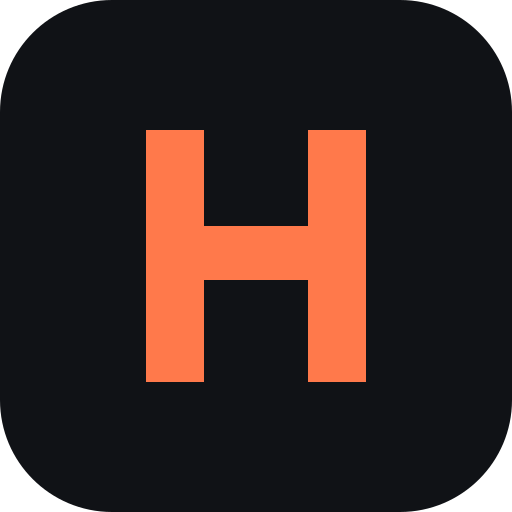
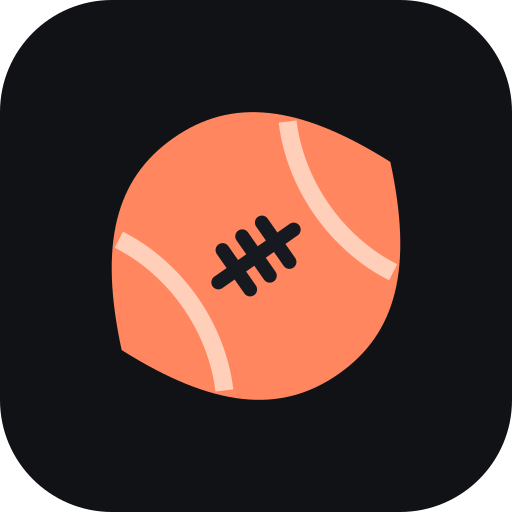
Add football branding, conference favorites, and configurable viewing services

Changed region(s): [[0.2188, 0.2188, 0.7812, 0.7812]]

diff --git a/src/app.js b/src/app.js
@@ -1,4 +1,5 @@
 import './style.css';
+import {TEAMS,normalizeFavorites,favoriteTeams,SERVICE_GROUPS,SERVICE_LABELS} from './preferences.js';
 import { createIcons, CalendarDays, MapPin, ArrowUpRight, ChevronLeft, ChevronRight, Bell, BellRing, Radio, Tv, Smartphone, Check, RefreshCw, Settings2, Download, X, Search, ExternalLink, Info, ArrowRight, CircleHelp, WifiOff, Zap } from 'lucide';
 import {DEFAULT_SERVICES,STATIONS,slateRange,normalizeScoreboard,mergeVerification,access,mountain,kickoff,localDate,calendar,safeUrl} from './core.js';
 import {registerGuideTools} from './agent-tools.js';
@@ -7,11 +8,12 @@ const $=s=>document.querySelector(s),esc=s=>String(s??'').replace(/[&<>"']/g,c=>
 const icon=(name,cls='')=>`<i data-lucide="${name}" class="${cls}" aria-hidden="true"></i>`;
 const read=(k,f)=>{try{return JSON.parse(localStorage.getItem(k))??f;}catch{return f;}};
 const write=(k,v)=>{try{localStorage.setItem(k,JSON.stringify(v));}catch{toast('Your browser could not save this preference.');}};
+let favorites=normalizeFavorites(read('huddle.favorites',{}));
 let services={...DEFAULT_SERVICES,...read('huddle.services',{})},saved=read('huddle.saved',[]),offset=0,filter='all',query='',games=[],dataState='loading',checked=null,api='',loading=false,installPrompt=null,registration=null,sequence=0,verificationError='';
 function paintIcons(){createIcons({icons,attrs:{'stroke-width':1.7}});}
 function toast(message){$('#toast').textContent=message;$('#toast').classList.add('visible');clearTimeout(toast.timer);toast.timer=setTimeout(()=>$('#toast').classList.remove('visible'),5000);}
 function shell(){
- $('#app').innerHTML=`<a href="#guide" class="skip">Skip to games</a><header class="topbar"><a class="brand" href="./" aria-label="Boulder Huddle home"><span class="brandmark">h</span><span>huddle<span class="brand-dot">.</span></span></a><span class="header-divider"></span><span class="edition">BOULDER EDITION</span><div class="top-right"><span class="location">${icon('map-pin')} Boulder, CO <span class="muted">· Mountain Time</span></span><button id="settings" class="icon-button" aria-label="Settings">${icon('settings-2')}</button><button id="install" class="button small">${icon('download')} Install app</button></div></header>
+ $('#app').innerHTML=`<a href="#guide" class="skip">Skip to games</a><header class="topbar"><a class="brand" href="./" aria-label="Boulder Huddle home"><img class="brandmark" src="./icon.svg" alt=""><span>huddle<span class="brand-dot">.</span></span></a><span class="header-divider"></span><span class="edition">BOULDER EDITION</span><div class="top-right"><span class="location">${icon('map-pin')} Boulder, CO <span class="muted">· Mountain Time</span></span><button id="settings" class="icon-button" aria-label="Settings">${icon('settings-2')}</button><button id="install" class="button small">${icon('download')} Install app</button></div></header>
  <main><div class="intro"><div><div class="eyebrow">YOUR WEEKLY NFL VIEWING GUIDE</div><h1>Football. <span>Sorted.</span></h1><p>Every matchup. Your channels. Zero guesswork.</p></div><button class="button primary" id="alerts">${icon('bell')} Game reminders</button></div>
  <section class="service-strip" aria-label="Your services"><div class="service-label">YOUR LINEUP</div><div id="services"></div><button class="text-button" id="edit-services">Edit ${icon('arrow-up-right')}</button></section>
  <div class="workspace"><div class="main-column"><section id="spotlight"></section><section id="guide" aria-label="Weekly games"><div class="guide-heading"><div><h2>The weekly slate <span id="game-total"></span></h2><p id="week-caption">Loading the upcoming slate…</p></div><div class="week-controls"><button id="prev" class="icon-button" aria-label="Previous week">${icon('chevron-left')}</button><button id="current" class="text-button">This week</button><button id="next" class="icon-button" aria-label="Next week">${icon('chevron-right')}</button></div></div><div class="filters"><div class="segments" role="group" aria-label="Filter games"><button data-filter="all" class="active" aria-pressed="true">All games</button><button data-filter="full" aria-pressed="false">Full game</button><button data-filter="redzone" aria-pressed="false">RedZone</button><button data-filter="saved" aria-pressed="false">Saved</button></div><label class="search">${icon('search')}<input id="search" placeholder="Find a team" aria-label="Find a team"></label></div><div id="freshness" class="freshness" role="status"></div><div id="games" aria-live="polite"><div class="empty">Loading your slate…</div></div></section></div>
@@ -28,10 +30,10 @@ function shell(){
  $('#games').addEventListener('click',gameAction);$('#spotlight').addEventListener('click',gameAction);
  renderServices();paintIcons();
 }
-function renderServices(){const labels={ota:['radio','OTA antenna'],netflix:[null,'Netflix'],prime:[null,'Prime Video'],nfl:['smartphone','NFL+'],redzone:['zap','RedZone']};$('#services').innerHTML=Object.entries(labels).filter(([key])=>services[key]).map(([key,[i,text]])=>`<span class="service-chip ${key}">${i?icon(i):`<b>${key==='netflix'?'N':'prime'}</b>`}${text}<span class="service-check">${icon('check')}</span></span>`).join('')||'<span class="muted">No services selected</span>';paintIcons();}
+function renderServices(){$('#services').innerHTML=Object.entries(SERVICE_LABELS).filter(([key])=>services[key]&&!key.startsWith('tv_')).map(([key,label])=>`<span class="service-chip">${icon('tv')}${esc(label)}<span class="service-check">${icon('check')}</span></span>`).join('')||'<span class="muted">No services selected</span>';paintIcons();}
 function teamLogo(t){const url=safeUrl(t.logo);return url?`<img class="team-logo" src="${esc(url)}" alt="" loading="lazy" onerror="this.style.display='none'">`:'';}
-function renderSpotlight(){const g=games.find(g=>g.state!=='post'&&(g.away.abbr==='DEN'||g.home.abbr==='DEN'))||games.find(g=>g.state!=='post')||games[0];if(!g){$('#spotlight').innerHTML='';return;}const a=access(g,services),broncos=g.away.abbr==='DEN'||g.home.abbr==='DEN';$('#spotlight').innerHTML=`<article class="spotlight"><div class="spotlight-top"><span class="tiny-tag">${icon(broncos?'map-pin':'calendar-days')} ${broncos?'THE HOME TEAM':'UP NEXT'}</span><span>${esc(mountain(g.date,{weekday:'long'}))} ${icon('arrow-up-right')}</span></div><div class="spotlight-content"><div><div class="spotlight-meta">${esc(g.networks.join(' + '))} <span>·</span> ${esc(kickoff(g))} MT</div><h2>${esc(g.away.short)} <span>at</span><br>${esc(g.home.short)}</h2><p>${esc(g.venue)}</p></div><div class="matchup-logos">${teamLogo(g.away)}<span>VS</span>${teamLogo(g.home)}</div></div><div class="spotlight-bottom"><span>${icon(a.kind==='full'?'tv':'info')} ${esc(a.line)}</span><button data-action="save" data-id="${esc(g.id)}" class="button spotlight-save" aria-pressed="${saved.includes(g.id)}">${icon(saved.includes(g.id)?'check':'bell')} ${saved.includes(g.id)?'Saved':'Save game'}</button></div></article>`;paintIcons();}
-function gameCard(g){const a=access(g,services);return `<article class="game ${a.kind}" id="game-${esc(g.id)}"><div class="game-time"><strong>${esc(kickoff(g))}</strong><span>MT${g.state==='post'?' · FINAL':g.state==='in'?' · LIVE':''}</span></div><div class="game-main"><div class="matchup">${teamLogo(g.away)}<h3>${esc(g.away.short)} <span>at</span> ${esc(g.home.short)}</h3>${teamLogo(g.home)}${g.away.abbr==='DEN'||g.home.abbr==='DEN'?'<span class="home-tag">DEN</span>':''}</div><div class="broadcast">${esc(g.networks.join(' / ')||'Broadcaster TBD')}${g.neutral?' <span>·</span> '+esc(g.venue):''}${a.station?' <span>·</span> '+esc(a.station):''}</div><div class="watch-line"><strong>How you can watch</strong><span>${esc(a.line)}</span></div><p class="access-detail">${esc(a.detail)}</p>${g.notes?`<p class="access-detail">${esc(g.notes)}</p>`:''}<div class="game-links"><button data-action="detail" data-id="${esc(g.id)}">${icon('external-link')} Sources & details</button><button data-action="calendar" data-id="${esc(g.id)}">${icon('calendar-days')} Calendar</button></div></div><div class="game-end"><span class="badge ${a.kind}">${icon(a.kind==='full'?'check':a.kind==='mobile'?'smartphone':a.kind==='redzone'?'zap':'circle-help')}${esc(a.label)}</span><button class="icon-button save ${saved.includes(g.id)?'selected':''}" data-action="save" data-id="${esc(g.id)}" aria-label="${saved.includes(g.id)?'Unsave':'Save'} ${esc(g.away.short)} at ${esc(g.home.short)}" aria-pressed="${saved.includes(g.id)}">${icon(saved.includes(g.id)?'bell-ring':'bell')}</button></div></article>`;}
+function renderSpotlight(){const picks=[...new Set(Object.values(favorites).filter(Boolean).map(t=>games.find(g=>g.state!=='post'&&(g.away.abbr===t||g.home.abbr===t))).filter(Boolean))];if(!picks.length){const next=games.find(g=>g.state!=='post')||games[0];if(next)picks.push(next);}$('#spotlight').innerHTML=picks.map(g=>{const a=access(g,services),chosen=favoriteTeams(g,favorites);return `<article class="spotlight"><div class="spotlight-top"><span class="tiny-tag">${icon(chosen.length?'map-pin':'calendar-days')} ${chosen.length?'YOUR TEAM · '+chosen.join(' + '):'UP NEXT'}</span><span>${esc(mountain(g.date,{weekday:'long'}))} ${icon('arrow-up-right')}</span></div><div class="spotlight-content"><div><div class="spotlight-meta">${esc(g.networks.join(' + '))} <span>·</span> ${esc(kickoff(g))} MT</div><h2>${esc(g.away.short)} <span>at</span><br>${esc(g.home.short)}</h2><p>${esc(g.venue)}</p></div><div class="matchup-logos">${teamLogo(g.away)}<span>VS</span>${teamLogo(g.home)}</div></div><div class="spotlight-bottom"><span>${icon(a.kind==='full'?'tv':'info')} ${esc(a.line)}</span><button data-action="save" data-id="${esc(g.id)}" class="button spotlight-save" aria-pressed="${saved.includes(g.id)}">${icon(saved.includes(g.id)?'check':'bell')} ${saved.includes(g.id)?'Saved':'Save game'}</button></div></article>`;}).join('');paintIcons();}
+function gameCard(g){const a=access(g,services);return `<article class="game ${a.kind}" id="game-${esc(g.id)}"><div class="game-time"><strong>${esc(kickoff(g))}</strong><span>MT${g.state==='post'?' · FINAL':g.state==='in'?' · LIVE':''}</span></div><div class="game-main"><div class="matchup">${teamLogo(g.away)}<h3>${esc(g.away.short)} <span>at</span> ${esc(g.home.short)}</h3>${teamLogo(g.home)}${favoriteTeams(g,favorites).map(t=>`<span class="home-tag">${esc(t)}</span>`).join('')}</div><div class="broadcast">${esc(g.networks.join(' / ')||'Broadcaster TBD')}${g.neutral?' <span>·</span> '+esc(g.venue):''}${a.station?' <span>·</span> '+esc(a.station):''}</div><div class="watch-line"><strong>How you can watch</strong><span>${esc(a.line)}</span></div><p class="access-detail">${esc(a.detail)}</p>${g.notes?`<p class="access-detail">${esc(g.notes)}</p>`:''}<div class="game-links"><button data-action="detail" data-id="${esc(g.id)}">${icon('external-link')} Sources & details</button><button data-action="calendar" data-id="${esc(g.id)}">${icon('calendar-days')} Calendar</button></div></div><div class="game-end"><span class="badge ${a.kind}">${icon(a.kind==='full'?'check':a.kind==='mobile'?'smartphone':a.kind==='redzone'?'zap':'circle-help')}${esc(a.label)}</span><button class="icon-button save ${saved.includes(g.id)?'selected':''}" data-action="save" data-id="${esc(g.id)}" aria-label="${saved.includes(g.id)?'Unsave':'Save'} ${esc(g.away.short)} at ${esc(g.home.short)}" aria-pressed="${saved.includes(g.id)}">${icon(saved.includes(g.id)?'bell-ring':'bell')}</button></div></article>`;}
 function renderGames(){
  document.querySelectorAll('[data-filter]').forEach(b=>{b.classList.toggle('active',b.dataset.filter===filter);b.setAttribute('aria-pressed',b.dataset.filter===filter);});
  const visible=games.filter(g=>{const a=access(g,services);return (filter==='all'||(filter==='full'&&a.kind==='full')||(filter==='redzone'&&a.redzone)||(filter==='saved'&&saved.includes(g.id)))&&`${g.home.name} ${g.away.name} ${g.home.abbr} ${g.away.abbr}`.toLowerCase().includes(query.toLowerCase());});
@@ -51,7 +53,7 @@ async function load(){const current=++sequence;loading=true;verificationError=''
 }
 function changeWeek(n){offset=Math.max(-30,Math.min(30,offset+n));games=[];renderGames();load();}
 function modal(title,body){$('#dialog-content').innerHTML=`<div class="modal-heading"><h2>${esc(title)}</h2><button class="icon-button" id="close-dialog" aria-label="Close">${icon('x')}</button></div>${body}`;$('#close-dialog').onclick=()=>$('#dialog').close();if(!$('#dialog').open)$('#dialog').showModal();paintIcons();}
-function settings(){modal('Your game-day setup',`<p class="muted">Boulder / Denver market · America/Denver</p><h3>Your services</h3><div class="service-options">${Object.entries({ota:'Over-the-air antenna',prime:'Amazon Prime Video',netflix:'Netflix',nfl:'NFL+ live mobile & NFL Network',redzone:'NFL+ Premium with RedZone'}).map(([key,label])=>`<label><input type="checkbox" data-service="${key}" ${services[key]?'checked':''}>${label}</label>`).join('')}</div><h3>Live guide service</h3><p class="muted">Connect the companion service to verify local broadcasts and send Android reminders when the app is closed.</p><label class="field">Service URL<input id="api-url" type="url" placeholder="https://your-huddle-service.workers.dev" value="${esc(api)}"></label><p class="fine">No API keys belong here. The service keeps them private. Device preferences stay in this browser; enabled reminders are saved to the service.</p><button id="save-settings" class="button primary">Save settings</button>`);$('#save-settings').onclick=async()=>{const value=$('#api-url').value.trim().replace(/\/$/,'');if(value&&!safeUrl(value)){toast('Enter a valid HTTPS service URL.');return;}if(value!==api&&registration&&await registration.pushManager.getSubscription()){toast('Turn off reminders before changing the service URL.');return;}document.querySelectorAll('[data-service]').forEach(i=>services[i.dataset.service]=i.checked);api=value;write('huddle.services',services);write('huddle.api',api);$('#dialog').close();renderServices();renderGames();renderSpotlight();await syncSubscription().catch(()=>toast('Services saved locally; reminder settings could not sync.'));load();};}
+function settings(){modal('Your game-day setup',`<p class="muted">Boulder / Denver market · Mountain Time</p><h3>Your teams</h3><p class="fine">One team per conference. Your picks feature their next games; local channels stay in the Denver market.</p><div class="team-options">${Object.entries(TEAMS).map(([conference,teams])=>`<label class="field">${conference}<select id="team-${conference}">${conference==='NFC'?'<option value="">Choose an NFC team</option>':''}${Object.entries(teams).map(([abbr,name])=>`<option value="${abbr}" ${favorites[conference]===abbr?'selected':''}>${name}</option>`).join('')}</select></label>`).join('')}</div>${SERVICE_GROUPS.map(group=>`<h3>${group.title}</h3>${group.note?`<p class="fine">${group.note}</p>`:''}<div class="service-options">${Object.entries(group.items).map(([key,label])=>`<label><input type="checkbox" data-service="${key}" ${services[key]?'checked':''}>${label}</label>`).join('')}</div>`).join('')}<p class="fine">Select the plan you have. ESPN Select does not include every ESPN game. Event streams appear only when named by the schedule. International Game Pass does not provide live games in Boulder.</p><details><summary>Connection settings</summary><label class="field">Live guide URL<input id="api-url" type="url" value="${esc(api)}"></label><p class="fine">Your guide refreshes without a paid API key. Preferences stay on this device and sync for enabled reminders.</p></details><button id="save-settings" class="button primary settings-save">Save settings</button>`);$('#save-settings').onclick=async()=>{const value=$('#api-url').value.trim().replace(/\/$/,'');if(value&&!safeUrl(value)){toast('Enter a valid HTTPS service URL.');return;}if(value!==api&&registration&&await registration.pushManager.getSubscription()){toast('Turn off reminders before changing the service URL.');return;}document.querySelectorAll('[data-service]').forEach(i=>services[i.dataset.service]=i.checked);favorites=normalizeFavorites({AFC:$('#team-AFC').value,NFC:$('#team-NFC').value});write('huddle.favorites',favorites);api=value;write('huddle.services',services);write('huddle.api',api);$('#dialog').close();renderServices();renderGames();renderSpotlight();await syncSubscription().catch(()=>toast('Services saved locally; reminder settings could not sync.'));load();};}
 async function gameAction(e){const b=e.target.closest('[data-action]');if(!b)return;const g=games.find(g=>g.id===b.dataset.id);if(!g)return;if(b.dataset.action==='save'){saved=saved.includes(g.id)?saved.filter(x=>x!==g.id):[...saved,g.id];write('huddle.saved',saved);renderGames();renderSpotlight();toast(saved.includes(g.id)?'Game saved. Enable Game reminders for kickoff alerts.':'Game removed from saved games.');await syncSubscription().catch(()=>toast('Saved locally. Reminder sync failed; try again in Game reminders.'));}if(b.dataset.action==='calendar'){if(g.timeTbd)return toast('Kickoff time is still TBD. Add it once the time is confirmed.');const url=URL.createObjectURL(new Blob([calendar(g,access(g,services))],{type:'text/calendar'}));const a=document.createElement('a');a.href=url;a.download=`${g.away.abbr}-${g.home.abbr}.ics`;a.click();setTimeout(()=>URL.revokeObjectURL(url),1000);}if(b.dataset.action==='detail'){const a=access(g,services);modal(`${g.away.short} at ${g.home.short}`,`<p>${esc(mountain(g.date,{weekday:'long',month:'long',day:'numeric'}))} · ${esc(kickoff(g))} MT</p><span class="badge ${a.kind}">${esc(a.label)}</span><h3>How you can watch</h3><p>${esc(a.line)}</p><p class="muted">${esc(a.detail)}</p><h3>Verification</h3><p class="muted">${g.verifiedAt?'Last checked '+esc(mountain(g.verifiedAt,{month:'short',day:'numeric',hour:'numeric',minute:'2-digit'}))+' MT. Assignments expire after two hours.':'Local assignment has not been verified. A national CBS or FOX listing does not identify the Denver game.'}</p>${sourceLinks(g.sources)}${commonSources(g)}<p class="fine">RedZone is live coverage of selected moments, never an entitlement to a full out-of-market game. NFL+ full replays are available after games, not live TV access.</p>`);}}
 function sourceLinks(s=[]){return `<div class="source-links">${s.filter(s=>safeUrl(s.url)).map(s=>`<a href="${esc(s.url)}" target="_blank" rel="noreferrer">${esc(s.title)} ${icon('arrow-up-right')}</a>`).join('')}</div>`;}
 function commonSources(g){return sourceLinks([{title:'NFL official schedule',url:'https://www.nfl.com/schedules/'},{title:'506 Sports · regional broadcast maps',url:g?.season&&g?.week?`https://506sports.com/nfl.php?yr=${g.season}&wk=${g.week}`:'https://506sports.com/nfl/'},{title:'NFL+ device and casting restrictions',url:'https://support.nfl.com/hc/en-us/articles/35869809347860-Is-there-any-difference-between-NFL-on-my-mobile-app-NFL-on-my-computer-and-NFL-on-my-television'}]);}

diff --git a/src/core.js b/src/core.js
@@ -1,6 +1,7 @@
+import {SERVICE_LABELS,PROVIDERS} from './preferences.js';
 export const ZONE = 'America/Denver';
 export const STATIONS = {CBS: 'KCNC · 4.1', FOX: 'KDVR · 31.1', NBC: 'KUSA · 9.1', ABC: 'KMGH · 7.1'};
-export const DEFAULT_SERVICES = {ota:true, prime:true, netflix:true, nfl:true, redzone:true};
+export const DEFAULT_SERVICES = {...Object.fromEntries(Object.keys(SERVICE_LABELS).map(k=>[k,false])),ota:true, prime:true, netflix:true, nfl:true, redzone:true};
 export function localDate(date) {return new Intl.DateTimeFormat('en-CA',{timeZone:ZONE,year:'numeric',month:'2-digit',day:'2-digit'}).format(new Date(date));}
 export function mountain(date, options={}) {return new Intl.DateTimeFormat('en-US',{timeZone:ZONE,...options}).format(new Date(date));}
 export function kickoff(game) {return game.timeTbd ? 'Time TBD' : mountain(game.date,{hour:'numeric',minute:'2-digit'});}
@@ -23,17 +24,29 @@ export function freshVerification(g,now=Date.now()) {return !!g.verifiedAt && no
 export function access(g,services=DEFAULT_SERVICES,now=Date.now()) {
   const fresh=freshVerification(g,now);const nets=g.networks.map(x=>x.toLowerCase());const has=s=>nets.some(n=>n===s||n.includes(s));
   const sunday=isSundayAfternoon(g),station=fresh&&g.local==='yes'?g.station:null;
-  const mobile=services.nfl&&fresh&&g.mobile===true;
+  const mobile=(services.nfl||services.redzone)&&fresh&&g.mobile===true;
+  const provider=PROVIDERS.find(k=>services[k]);
+  const tv=key=>!!provider&&services['tv_'+key];
   let full=null;
   if(station&&services.ota)full=station+' with your antenna';
   else if(services.prime&&(has('prime video')||has('amazon')))full='Prime Video';
   else if(services.netflix&&has('netflix'))full='Netflix';
-  else if(services.nfl&&has('nfl network'))full='NFL Network through NFL+';
+  else if((services.nfl||services.redzone)&&has('nfl network'))full='NFL Network through NFL+';
+  else if(services.ticket&&sunday&&fresh&&g.local==='no')full='NFL Sunday Ticket';
+  else if(services.peacock&&(has('peacock')||has('nbc')))full='Peacock';
+  else if(services.paramount&&((station&&has('cbs'))||has('paramount')))full='Paramount+';
+  else if(services.foxone&&station&&has('fox'))full='FOX One';
+  else if(services.espn&&nets.some(n=>['espn','espn2','abc','espn+','espn unlimited','nfl network'].includes(n)))full='ESPN Unlimited';
+  else if(services.espnplus&&has('espn+'))full='ESPN Select / ESPN+';
+  else if(services.youtube&&nets.includes('youtube'))full='YouTube';
+  else if(services.twitch&&has('twitch'))full='Twitch';
+  else if(services.tubi&&has('tubi'))full='Tubi';
+  else if(provider&&((station&&['cbs','fox','nbc','abc'].some(n=>tv(n)&&nets.includes(n)))||(tv('espn')&&nets.some(n=>['espn','espn2'].includes(n)))||(tv('nfl')&&has('nfl network'))))full=SERVICE_LABELS[provider]+(station?' · '+station:'');
   // Network affiliation alone is not evidence of a game's local carriage.
-  const rz=sunday&&services.redzone;
+  const rz=sunday&&(services.redzone||tv('redzone'));
   if(full)return {kind:'full',label:'Full game',line:full,detail:mobile?'Also on NFL+ · phone/tablet only; no TV casting.':(fresh?'Live full-game access with your services.':'Broadcaster listed by schedule feed; rights verification pending.'),mobile,redzone:rz,station};
   if(mobile)return {kind:'mobile',label:'Mobile / tablet',line:'NFL+ on your phone or tablet',detail:'Full game on mobile only; no TV casting. '+(g.requiredService?`For TV: ${g.requiredService} (not in your services).`:'TV service not in your subscriptions.'),mobile:true,redzone:rz,station};
-  if(rz)return {kind:fresh&&g.local==='no'?'redzone':'pending',label:fresh&&g.local==='no'?'RedZone only':'Local TV unconfirmed',line:'NFL RedZone through NFL+ Premium',detail:fresh&&g.local==='no'?'No full local broadcast with your services. RedZone shows live look-ins, not the full game. Sunday Ticket is needed for the full out-of-market game.':'Full local broadcast is not confirmed. RedZone offers look-ins only; check the Denver assignment before planning to watch.',mobile,redzone:true,station};
+  if(rz)return {kind:fresh&&g.local==='no'?'redzone':'pending',label:fresh&&g.local==='no'?'RedZone only':'Local TV unconfirmed',line:services.redzone?'NFL RedZone through NFL+ Premium':'NFL RedZone through '+SERVICE_LABELS[provider],detail:fresh&&g.local==='no'?'No full local broadcast with your services. RedZone shows live look-ins, not the full game. Sunday Ticket is needed for the full out-of-market game.':'Full local broadcast is not confirmed. RedZone offers look-ins only; check the Denver assignment before planning to watch.',mobile,redzone:true,station};
   const required=g.requiredService||g.networks.join(' / ')||'Broadcaster TBD';
   return {kind:fresh?'extra':'pending',label:fresh?'Extra service':'Access unconfirmed',line:fresh?required:'Verify local broadcast & streaming rights',detail:fresh?`No confirmed full-game access with your services. ${required} is needed; check its eligible plan.`:'NFL+ mobile eligibility and any Denver simulcast are still unconfirmed. Open the sources for the latest listing.',mobile:false,redzone:false,station};
 }

diff --git a/src/style.css b/src/style.css
@@ -5,3 +5,5 @@
 @media(max-width:800px){.workspace{grid-template-columns:1fr}aside{display:grid;grid-template-columns:1fr 1fr;gap:16px;margin-top:24px}.panel{margin:0!important}.source-panel{padding:10px}.topbar{height:72px;gap:13px}.brand{font-size:25px}.brandmark{width:31px;height:33px;font-size:29px}.edition{font-size:9px;letter-spacing:1.3px}.location{display:none}.top-right{gap:3px}.topbar .button{font-size:11px;padding:8px}.intro h1{font-size:42px}.intro>.button{font-size:12px;padding:10px}.spotlight-content{padding-block:30px}.spotlight h2{font-size:35px}.matchup-logos .team-logo{width:83px;height:83px}.game{grid-template-columns:74px minmax(0,1fr) 140px}.game-end{grid-column:auto;flex-direction:column;align-items:flex-end}.search{flex:0;width:190px}}
 @media(max-width:560px){main{padding:26px 5% 0}.topbar{padding-inline:5%}.edition,.header-divider{display:none}.intro{align-items:flex-start;gap:15px;flex-wrap:wrap}.intro h1{font-size:37px;letter-spacing:-1.5px}.intro p{font-size:13px}.intro>.button{align-self:auto;margin-top:3px;padding:9px 13px}.eyebrow{font-size:9px}.service-strip{margin:23px 0;padding:13px 0;gap:7px;align-items:flex-start}.service-strip #services{gap:6px}.service-chip{font-size:10px;padding:6px 8px;gap:5px}.service-check{display:none}.service-chip svg{width:12px}.service-strip>.text-button{font-size:11px}.spotlight{margin-bottom:28px}.spotlight-top{padding:19px 18px 0;font-size:11px}.spotlight-content{padding:23px 18px;gap:8px}.spotlight h2{font-size:29px}.spotlight h2 span{font-size:19px}.spotlight-meta{font-size:9px;letter-spacing:.6px}.spotlight-content p{font-size:10px}.matchup-logos{gap:2px;flex-wrap:wrap;width:100px;flex-shrink:0}.matchup-logos .team-logo{width:62px;height:62px}.matchup-logos>span{font-size:9px;width:100%;text-align:center}.spotlight-bottom{padding:12px 18px;font-size:11px}.spotlight-bottom>span{line-height:1.5}.spotlight-save{font-size:10px;padding:6px 8px}.guide-heading h2{font-size:20px}.guide-heading p{font-size:11px}.week-controls{gap:0}.week-controls .text-button{font-size:11px}.week-controls .icon-button{width:26px}.filters{gap:10px;margin-top:18px}.segments{width:100%;justify-content:space-between}.segments button{flex:1;font-size:12px}.search{width:100%;flex:auto}.freshness{font-size:10px}.freshness p{font-size:11px}.game{grid-template-columns:58px minmax(0,1fr);padding:17px 13px;gap:12px}.game-time strong{font-size:12px}.game-time>span{font-size:9px}.game-end{grid-column:2;flex-direction:row;align-items:center}.matchup h3{font-size:14px}.matchup .team-logo{width:24px;height:24px}.matchup{gap:4px}.matchup h3 span{font-size:11px;padding:0}.broadcast{font-size:10px;margin-top:7px}.watch-line{font-size:12px}.access-detail{font-size:11px}.game-links{gap:12px}.game-links button{font-size:10px}.badge{font-size:10px}.day-heading{margin-top:25px}.day-heading h3{font-size:15px}aside{grid-template-columns:1fr}.access-key{display:grid;grid-template-columns:1fr 1fr;gap:0 15px}.access-key>.eyebrow,.access-key>h3{grid-column:1/-1}.access-key>h3{margin-bottom:0}.key-item{gap:8px;margin:15px 0}.key-item p{font-size:11px}.key-item strong{font-size:11px}.key-icon{width:26px;height:26px}.key-icon svg{width:14px}footer{gap:9px;flex-wrap:wrap;font-size:10px}footer>span:last-child{margin-left:0;width:100%}.toast{font-size:12px}dialog{padding:21px}.modal-heading h2{font-size:22px}}
 @media(prefers-reduced-motion:reduce){*{scroll-behavior:auto!important;transition:none!important}}
+.brandmark{width:42px;height:42px;border-radius:12px;background:none;object-fit:contain}
+.team-options{display:grid;grid-template-columns:1fr 1fr;gap:14px}.field select{width:100%;padding:12px;border:1px solid var(--border);border-radius:9px;color:var(--text);background:#20242d;font:inherit;margin-top:8px;min-height:46px}.field select:focus-visible{outline:2px solid var(--accent);outline-offset:3px}.service-options{display:grid;grid-template-columns:1fr 1fr;gap:8px}.service-options label{display:flex;align-items:center;gap:10px;padding:12px!important;border:1px solid var(--border);border-radius:9px;min-height:48px;font-size:13px}.service-options label:has(input:checked){border-color:#a66a50;background:#2a211e}.service-options input{accent-color:var(--accent);flex-shrink:0}.settings-save{position:sticky;bottom:0;margin-top:22px;box-shadow:0 -8px 25px #181b21}details{margin-top:24px}summary{cursor:pointer;color:var(--muted);font-size:13px}#spotlight>.spotlight:not(:last-child){margin-bottom:16px}@media(max-width:560px){.team-options,.service-options{grid-template-columns:1fr}.service-options label{font-size:13px}.field select{font-size:16px}}

diff --git a/tests/preferences.test.js b/tests/preferences.test.js
@@ -1,0 +1,12 @@
+import test from 'node:test';
+import assert from 'node:assert/strict';
+import {access} from '../src/core.js';
+import {normalizeFavorites,favoriteTeams,TEAMS} from '../src/preferences.js';
+const now=Date.parse('2026-09-13T16:00Z');
+const game={date:'2026-09-13T17:00Z',networks:['CBS'],seasonType:2,local:'yes',station:'KCNC · 4.1',verifiedAt:new Date(now).toISOString(),away:{abbr:'DEN'},home:{abbr:'SEA'}};
+test('favorites enforce one team per conference and preserve both picks',()=>{assert.equal(Object.keys(TEAMS.AFC).length,16);assert.equal(Object.keys(TEAMS.NFC).length,16);assert.deepEqual(normalizeFavorites({AFC:'SEA',NFC:'DEN'}),{AFC:'DEN',NFC:''});assert.deepEqual(favoriteTeams(game,{AFC:'DEN',NFC:'SEA'}),['DEN','SEA']);});
+test('Paramount and FOX One cannot unlock out-of-market or unverified local games',()=>{assert.equal(access(game,{paramount:true},now).kind,'full');for(const local of ['no','unknown'])assert.notEqual(access({...game,local},{paramount:true},now).kind,'full');assert.equal(access({...game,networks:['FOX'],station:'KDVR · 31.1'},{foxone:true},now).kind,'full');});
+test('Sunday Ticket only unlocks confirmed out-of-market Sunday games',()=>{assert.equal(access({...game,local:'no'},{ticket:true},now).kind,'full');assert.notEqual(access(game,{ticket:true},now).kind,'full');assert.notEqual(access({...game,local:'unknown'},{ticket:true},now).kind,'full');assert.notEqual(access({...game,local:'no',networks:['Peacock']},{ticket:true},now).kind,'full');});
+test('ESPN Select does not unlock linear ESPN, while Unlimited does',()=>{assert.notEqual(access({...game,networks:['ESPN']},{espnplus:true},now).kind,'full');assert.equal(access({...game,networks:['ESPN']},{espn:true},now).kind,'full');assert.equal(access({...game,networks:['ESPN+']},{espnplus:true},now).kind,'full');});
+test('TV provider requires confirmed channel entitlements and Denver game assignment',()=>{assert.notEqual(access(game,{sling:true},now).kind,'full');assert.equal(access(game,{sling:true,tv_cbs:true},now).kind,'full');assert.notEqual(access({...game,local:'no'},{sling:true,tv_cbs:true},now).kind,'full');assert.notEqual(access(game,{tv_cbs:true},now).kind,'full');assert.match(access({...game,local:'no'},{sling:true,tv_redzone:true},now).line,/Sling/);});
+test('event services and Peacock exclusives are kept separate from TV bundles',()=>{assert.equal(access({...game,networks:['Peacock']},{peacock:true},now).kind,'full');assert.notEqual(access({...game,networks:['Peacock'],station:null},{youtubetv:true,tv_nbc:true},now).kind,'full');assert.equal(access({...game,networks:['YouTube']},{youtube:true},now).kind,'full');assert.notEqual(access({...game,networks:['YouTube TV']},{youtube:true},now).kind,'full');});

diff --git a/src/preferences.js b/src/preferences.js
@@ -1,0 +1,13 @@
+export const TEAMS = {
+ AFC: {BAL:'Baltimore Ravens',BUF:'Buffalo Bills',CIN:'Cincinnati Bengals',CLE:'Cleveland Browns',DEN:'Denver Broncos',HOU:'Houston Texans',IND:'Indianapolis Colts',JAX:'Jacksonville Jaguars',KC:'Kansas City Chiefs',LAC:'Los Angeles Chargers',LV:'Las Vegas Raiders',MIA:'Miami Dolphins',NE:'New England Patriots',NYJ:'New York Jets',PIT:'Pittsburgh Steelers',TEN:'Tennessee Titans'},
+ NFC: {ARI:'Arizona Cardinals',ATL:'Atlanta Falcons',CAR:'Carolina Panthers',CHI:'Chicago Bears',DAL:'Dallas Cowboys',DET:'Detroit Lions',GB:'Green Bay Packers',LAR:'Los Angeles Rams',MIN:'Minnesota Vikings',NO:'New Orleans Saints',NYG:'New York Giants',PHI:'Philadelphia Eagles',SEA:'Seattle Seahawks',SF:'San Francisco 49ers',TB:'Tampa Bay Buccaneers',WSH:'Washington Commanders'}
+};
+export function normalizeFavorites(value={}) {return {AFC:Object.hasOwn(TEAMS.AFC,value?.AFC)?value.AFC:'DEN',NFC:Object.hasOwn(TEAMS.NFC,value?.NFC)?value.NFC:''};}
+export function favoriteTeams(game,favorites) {return Object.values(normalizeFavorites(favorites)).filter(t=>t&&(game.away.abbr===t||game.home.abbr===t));}
+export const SERVICE_GROUPS = [
+ {title:'Antenna & streaming',items:{ota:'OTA antenna',prime:'Amazon Prime Video',netflix:'Netflix',nfl:'NFL+',redzone:'NFL+ Premium · RedZone',peacock:'Peacock Premium / Premium Plus',paramount:'Paramount+',foxone:'FOX One',espn:'ESPN Unlimited',espnplus:'ESPN Select / ESPN+',ticket:'NFL Sunday Ticket',youtube:'YouTube · event streams',twitch:'Twitch · event streams',tubi:'Tubi · event streams'}},
+ {title:'Live TV providers',items:{youtubetv:'YouTube TV',hulu:'Hulu + Live TV',fubo:'Fubo',directv:'DIRECTV',sling:'Sling TV',other:'Other cable / satellite / live TV'}},
+ {title:'Channels included in your live TV plan',note:'Check the channels your selected provider actually carries. Local games still follow Denver assignments. Sunday Ticket and RedZone are separate add-ons.',items:{tv_cbs:'CBS · KCNC 4.1',tv_fox:'FOX · KDVR 31.1',tv_nbc:'NBC · KUSA 9.1',tv_abc:'ABC · KMGH 7.1',tv_espn:'ESPN / ESPN2',tv_nfl:'NFL Network',tv_redzone:'NFL RedZone add-on'}}
+];
+export const SERVICE_LABELS=Object.assign({},...SERVICE_GROUPS.map(g=>g.items));
+export const PROVIDERS=['youtubetv','hulu','fubo','directv','sling','other'];
